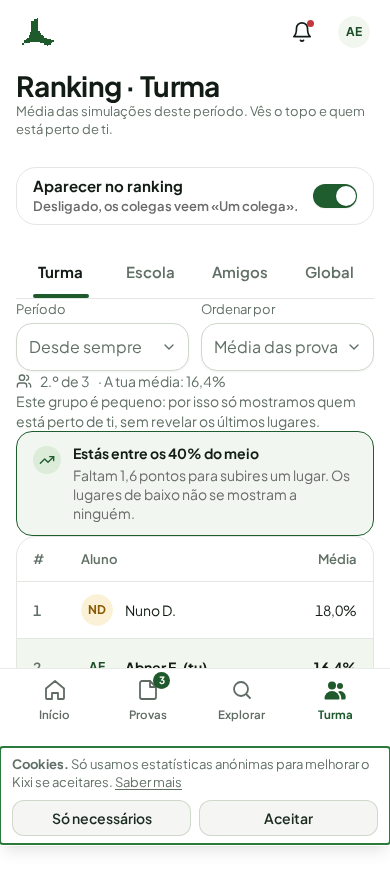
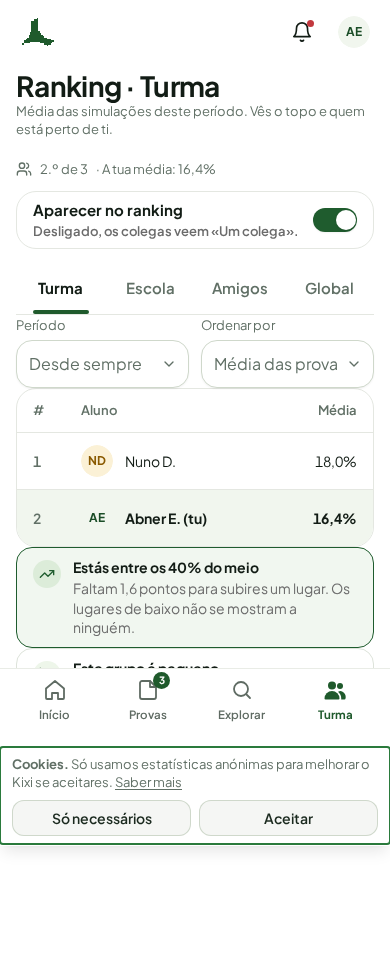
fix(aluno): posição antes das abas e privacidade depois da tabela (#800)

diff --git a/student/components/ranking-view.tsx b/student/components/ranking-view.tsx
@@ -1,7 +1,7 @@
 'use client';
 
 import { useState, useTransition } from 'react';
-import { TrendingUp, Users } from 'lucide-react';
+import { EyeOff, TrendingUp, Users } from 'lucide-react';
 import { Column, Page, PageHeader } from '@/components/page';
 import { Card } from '@/components/ui/card';
 import { Table, TableBody, TableCell, TableHead, TableHeader, TableRow } from '@/components/ui/table';
@@ -89,14 +89,25 @@ export function RankingView({
   const progress = board ? podiumGap(board, metric) : null;
   const band = board ? relativeBandLabel(board.myPosition, board.totalStudents) : null;
   const gap = board ? nextPlaceGap(board, metric) : null;
+  const posicao = myPositionLabel(board?.myPosition ?? null, board?.totalStudents ?? 0);
+  const privacidade = board ? smallGroupNote(board.smallGroup) : null;
 
   return (
     <Page variant="wide">
-      <Column className="gap-5">
+      <Column className="gap-3">
         <PageHeader
           title={pending ? `A carregar ${SCOPE_LABEL[scope]}…` : `Ranking · ${SCOPE_LABEL[scope]}`}
           description="Média das simulações deste período. Vês o topo e quem está perto de ti."
         />
+        {/* A posição responde ao título antes de qualquer filtro: é a pergunta que
+            o aluno traz («onde estou?»), não um detalhe da tabela (#800). */}
+        <div data-testid="ranking-posicao" className="flex flex-wrap items-center gap-2 text-[13px] text-muted-foreground">
+          <Users className="size-4" aria-hidden />
+          {posicao ?? 'Ainda sem nota para te posicionar'}
+          {progress && <span>· {progress}</span>}
+          {board?.myAverage != null && <span>· A tua média: {formatAverage(board.myAverage)}%</span>}
+          {scope === 'global' && board?.myPercentile != null && <span>· Percentil na tua escola: {formatAverage(board.myPercentile)}</span>}
+        </div>
         <p className="sr-only" role="status" aria-live="polite" aria-atomic="true">{announcement}</p>
         {/* A escolha é da conta, não da aba: fica no topo e sobrevive à troca de
             âmbito. Uma linha compacta em vez do bloco grande da maquete, para a
@@ -166,34 +177,7 @@ export function RankingView({
               </Card>
             ) : (
               <>
-                <div className="flex flex-wrap items-center gap-2 text-sm text-muted-foreground">
-                  <Users className="size-4" aria-hidden />
-                  {myPositionLabel(board.myPosition, board.totalStudents) ?? 'Ainda sem nota para te posicionar'}
-                  {progress && <span>· {progress}</span>}
-                  {board.myAverage != null && <span>· A tua média: {formatAverage(board.myAverage)}%</span>}
-                  {scope === 'global' && board.myPercentile != null && <span>· Percentil na tua escola: {formatAverage(board.myPercentile)}</span>}
-                </div>
                 {scope === 'global' && <p className="text-sm text-muted-foreground">{globalNote(board.institutionsCounted, metric)}</p>}
-                {smallGroupNote(board.smallGroup) && (
-                  <p className="text-sm text-muted-foreground">{smallGroupNote(board.smallGroup)}</p>
-                )}
-                {/* O destaque é o contexto da tabela, não um cartão solto no fim da
-                    página: fica logo acima dela e não repete a faixa da linha de
-                    posição. Mesmas cores da maquete, mas com a escala de um texto
-                    de leitura, para não competir com as notas. */}
-                {band && (
-                  <div data-testid="ranking-destaque" className="flex items-start gap-3 rounded-2xl border-[1.5px] border-[#1F5C2E] bg-[#F1F7F0] px-4 py-3">
-                    <span className="mt-0.5 grid size-7 shrink-0 place-items-center rounded-full bg-[#dcecd9] text-[#1F5C2E]" aria-hidden="true">
-                      <TrendingUp className="size-4" />
-                    </span>
-                    <div className="grid min-w-0 gap-0.5 text-sm leading-snug">
-                      <strong className="font-bold text-[#121c15]">{band.replace(/\.$/, '')}</strong>
-                      <span className="text-[#6B6B6B]">
-                        {gap ? `${gap} ` : ''}Os lugares de baixo não se mostram a ninguém.
-                      </span>
-                    </div>
-                  </div>
-                )}
                 <Card className="overflow-hidden py-0">
                   <Table>
                     <TableHeader>
@@ -223,6 +207,32 @@ export function RankingView({
                     </TableBody>
                   </Table>
                 </Card>
+                {/* Depois da tabela: o aluno lê primeiro os resultados e só depois
+                    o contexto. Mesmas cores da maquete, com padding mais curto. */}
+                {band && (
+                  <div data-testid="ranking-destaque" className="flex items-start gap-3 rounded-2xl border-[1.5px] border-[#1F5C2E] bg-[#F1F7F0] px-4 py-2.5">
+                    <span className="mt-0.5 grid size-7 shrink-0 place-items-center rounded-full bg-[#dcecd9] text-[#1F5C2E]" aria-hidden="true">
+                      <TrendingUp className="size-4" />
+                    </span>
+                    <div className="grid min-w-0 gap-0.5 text-sm leading-snug">
+                      <strong className="font-bold text-[#121c15]">{band.replace(/\.$/, '')}</strong>
+                      <span className="text-[#6B6B6B]">
+                        {gap ? `${gap} ` : ''}Os lugares de baixo não se mostram a ninguém.
+                      </span>
+                    </div>
+                  </div>
+                )}
+                {privacidade && (
+                  <div data-testid="ranking-privacidade" className="flex items-start gap-3 rounded-2xl border border-[#dde3da] bg-white px-4 py-2.5">
+                    <span className="mt-0.5 grid size-7 shrink-0 place-items-center rounded-full bg-[#eef6ea] text-[#1F5C2E]" aria-hidden="true">
+                      <EyeOff className="size-4" />
+                    </span>
+                    <div className="grid min-w-0 gap-0.5 text-sm leading-snug">
+                      <strong className="font-bold text-[#121c15]">{privacidade.title}</strong>
+                      <span className="text-[#6B6B6B]">{privacidade.text}</span>
+                    </div>
+                  </div>
+                )}
               </>
             )}
 

diff --git a/e2e/qualidade.spec.ts b/e2e/qualidade.spec.ts
@@ -240,17 +240,25 @@ test.describe('aparecer no ranking (#800)', () => {
       await naLiga.click();
       await expect(naLiga).toBeChecked();
     }
-    // Disposição revista: o interruptor é uma linha no topo e o destaque vem
-    // antes da tabela, não dois blocos grandes no fim da página.
+    // Hierarquia revista: posição antes dos separadores, tabela primeiro e
+    // explicação de privacidade depois, colada ao destaque verde.
+    const posicao = page.getByTestId('ranking-posicao');
+    const tabela = page.getByRole('table');
     const destaque = page.getByTestId('ranking-destaque');
-    await expect(destaque).toBeVisible();
-    const [switchBox, destaqueBox, tabelaBox] = await Promise.all([
-      naLiga.boundingBox(),
+    const privacidade = page.getByTestId('ranking-privacidade');
+    await expect(posicao).toContainText('A tua média: 16,4%');
+    await expect(privacidade).toContainText('Este grupo é pequeno');
+    await expect(privacidade).toContainText(/protegendo a privacidade dos restantes colegas/);
+    const [posicaoBox, abasBox, tabelaBox, destaqueBox, privacidadeBox] = await Promise.all([
+      posicao.boundingBox(),
+      page.getByRole('tablist').boundingBox(),
+      tabela.boundingBox(),
       destaque.boundingBox(),
-      page.getByRole('table').boundingBox(),
+      privacidade.boundingBox(),
     ]);
-    expect(switchBox!.y).toBeLessThan(destaqueBox!.y);
-    expect(destaqueBox!.y).toBeLessThan(tabelaBox!.y);
+    expect(posicaoBox!.y).toBeLessThan(abasBox!.y);
+    expect(tabelaBox!.y).toBeLessThan(destaqueBox!.y);
+    expect(destaqueBox!.y).toBeLessThan(privacidadeBox!.y);
     // O destaque não nomeia o fundo da tabela.
     await expect(destaque.getByText('Estás entre os 40% do meio', { exact: true })).toBeVisible();
     await expect(destaque.getByText(/Faltam .* para subires um lugar/)).toBeVisible();

diff --git a/student/lib/ranking-rules.ts b/student/lib/ranking-rules.ts
@@ -108,10 +108,14 @@ export function podiumGap(board: Leaderboard, metric: RankingMetric): string | n
 
 /** A regra de grupo pequeno (#117) esconde o pódio e corta as últimas posições:
  *  quando isso acontece, a lista de `entries` é só os vizinhos do aluno, nunca
- *  a turma toda - esta frase explica o porquê em vez de deixar parecer incompleta. */
-export function smallGroupNote(smallGroup: boolean): string | null {
+ *  a turma toda - este texto explica o porquê em vez de deixar parecer incompleta.
+ *  Fica depois da tabela, para o aluno ver primeiro os resultados (#800). */
+export function smallGroupNote(smallGroup: boolean): { title: string; text: string } | null {
   return smallGroup
-    ? 'Este grupo é pequeno: por isso só mostramos quem está perto de ti, sem revelar os últimos lugares.'
+    ? {
+        title: 'Este grupo é pequeno',
+        text: 'Como existem poucos alunos nesta turma, mostramos apenas as posições próximas da tua, protegendo a privacidade dos restantes colegas.',
+      }
     : null;
 }
 

diff --git a/student/lib/ranking-rules.test.ts b/student/lib/ranking-rules.test.ts
@@ -36,7 +36,9 @@ test('o progresso até ao pódio respeita a métrica e não inventa dados ausent
 });
 
 test('o aviso de grupo pequeno só aparece quando o backend o assinala', () => {
-  assert.match(smallGroupNote(true) ?? '', /últimos lugares/);
+  const nota = smallGroupNote(true);
+  assert.equal(nota?.title, 'Este grupo é pequeno');
+  assert.match(nota?.text ?? '', /protegendo a privacidade dos restantes colegas/);
   assert.equal(smallGroupNote(false), null);
 });
 
